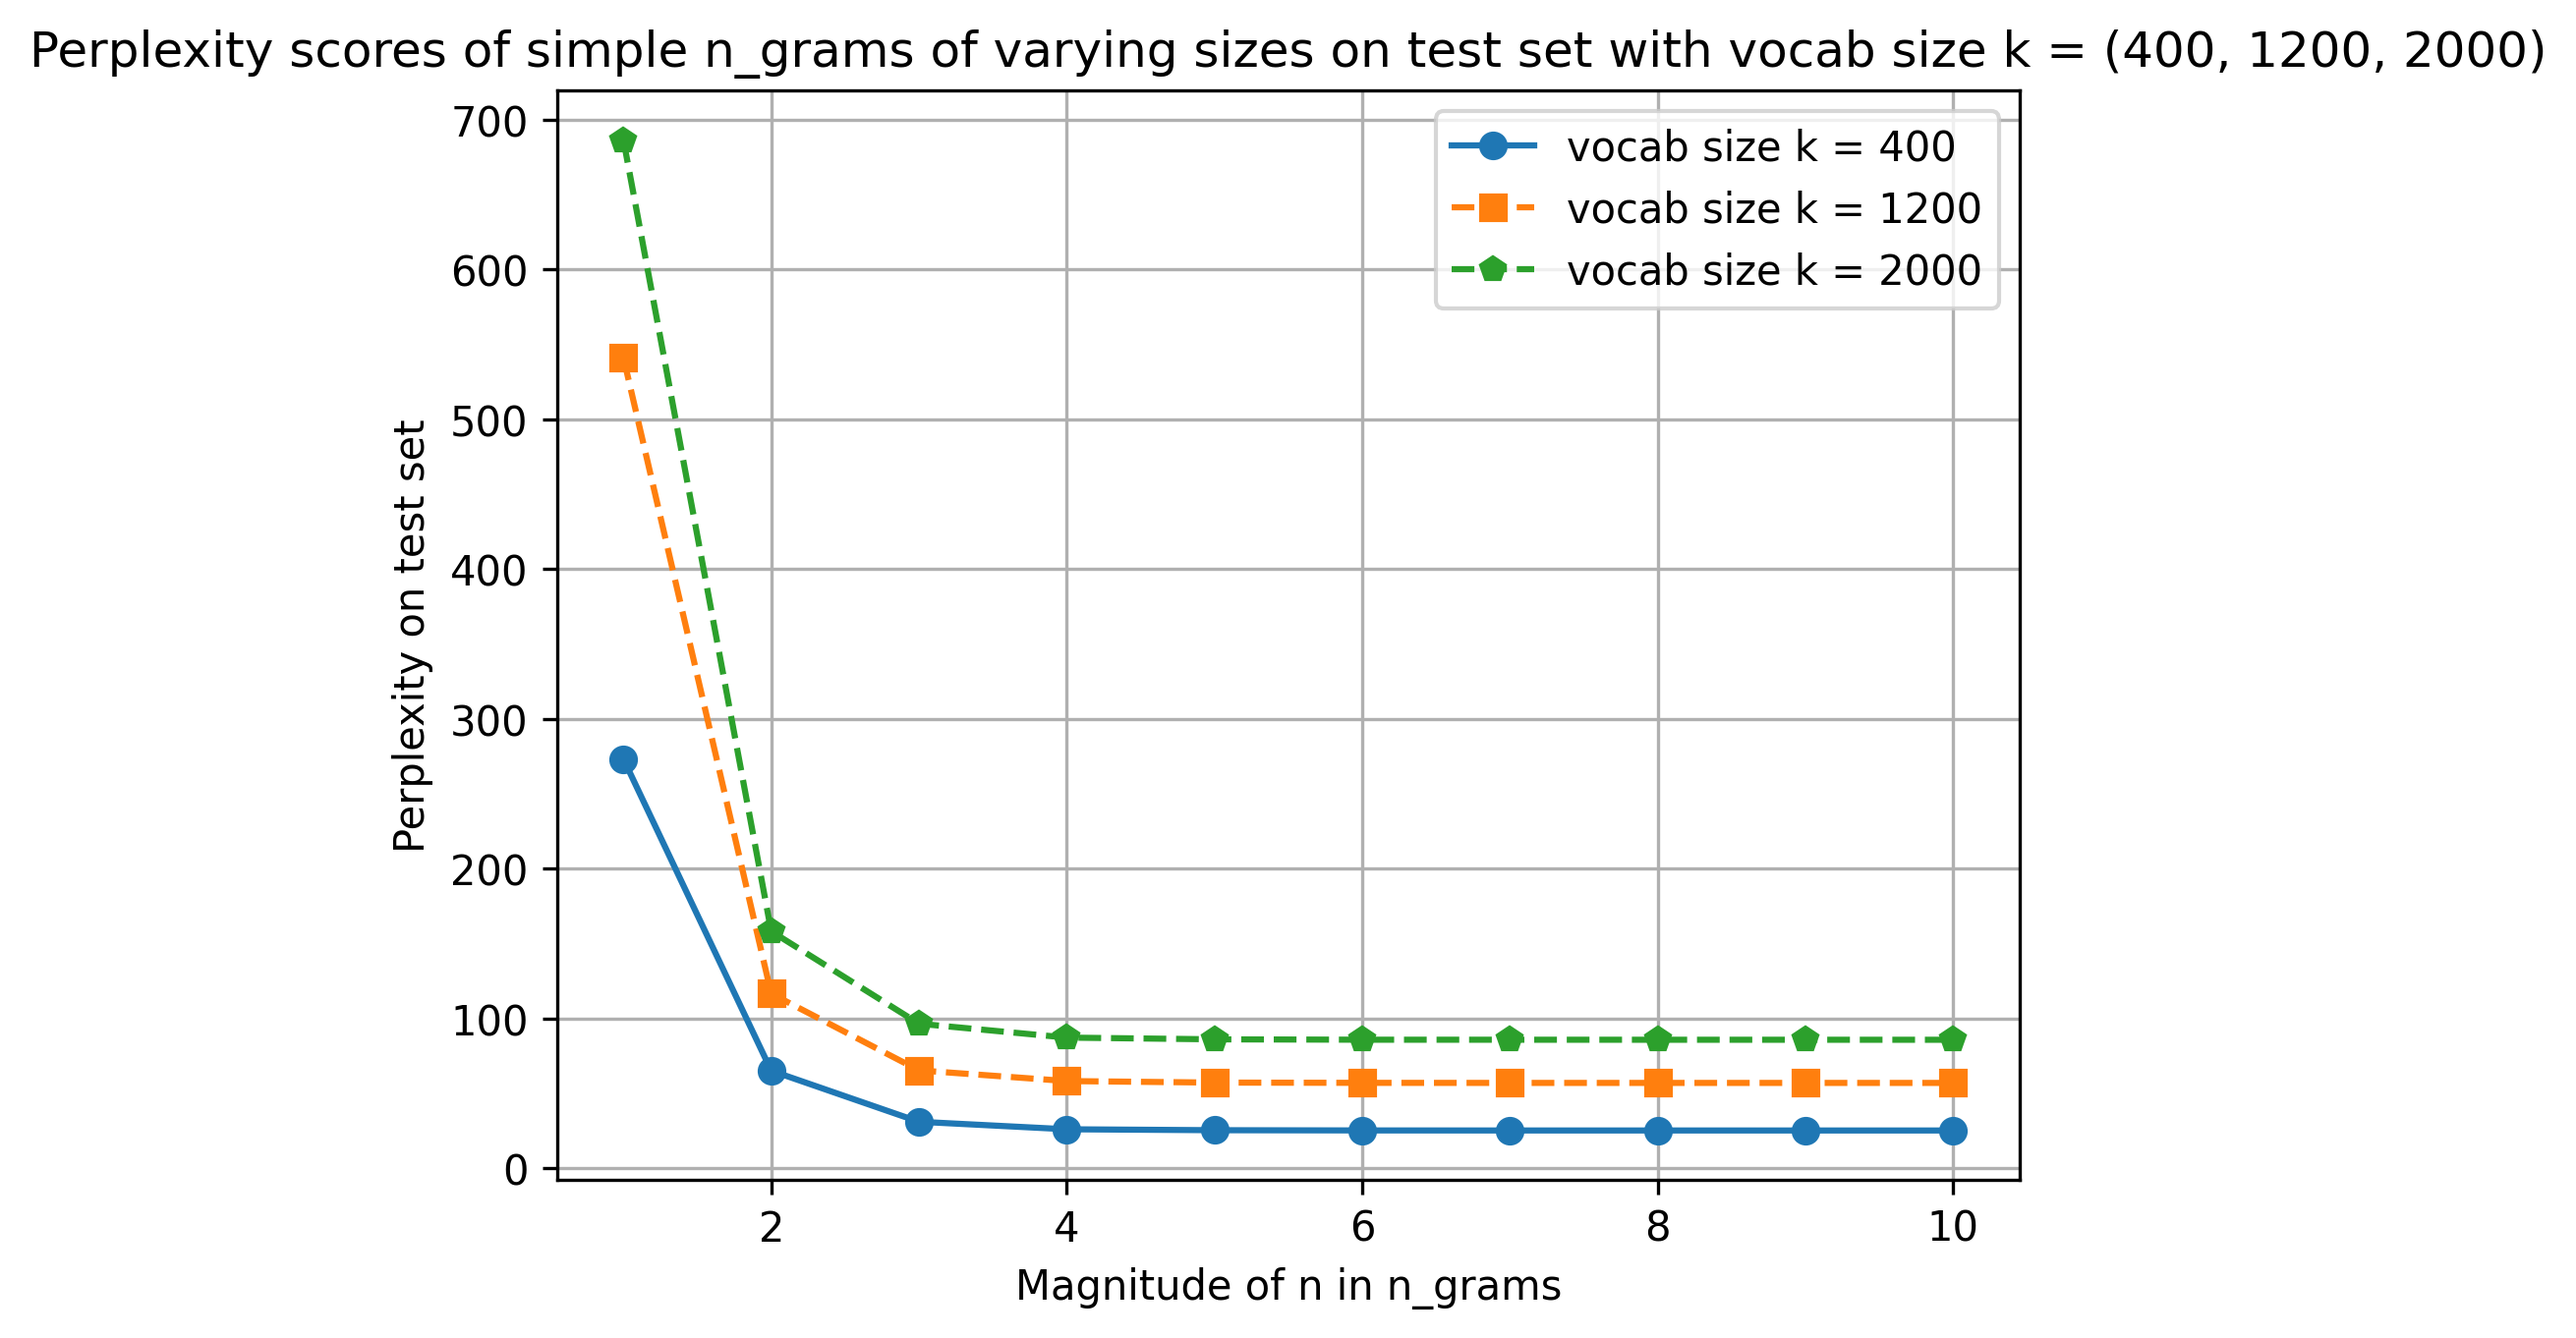
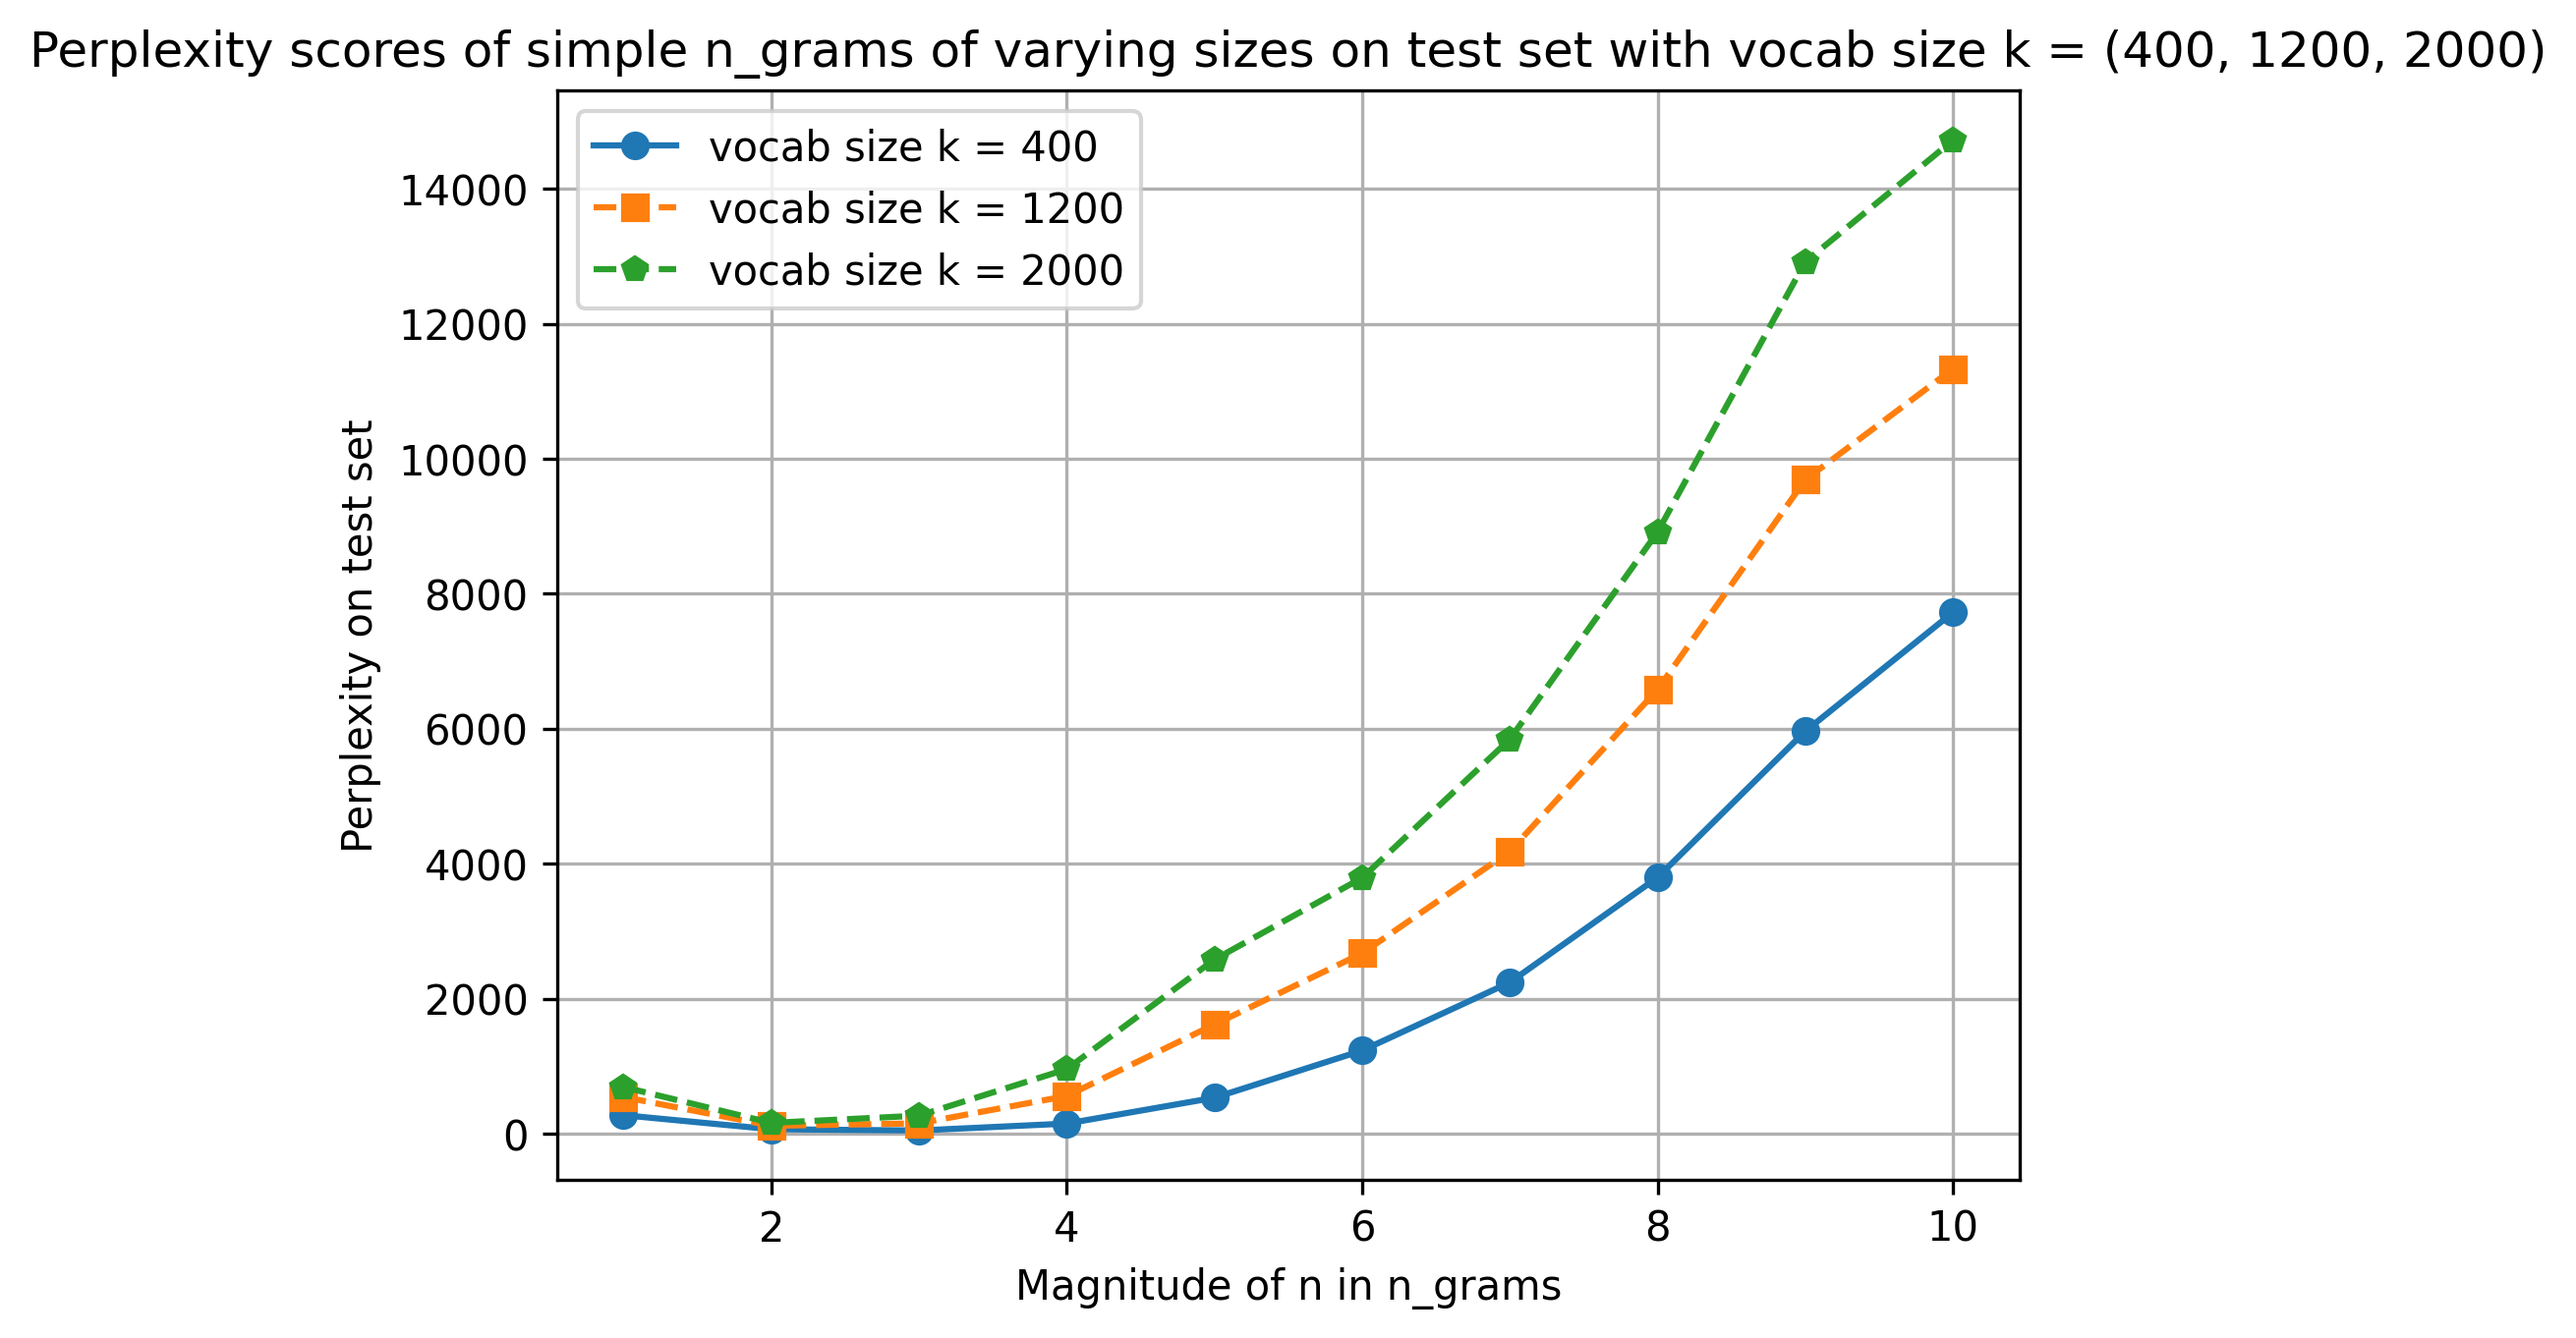
fix: greater penalty for more backoff

diff --git a/simple_n_grams.py b/simple_n_grams.py
@@ -119,19 +119,21 @@ def get_perplexity_score_of_via(corpus_segment: str,
          
             if sequence_freq > 0:
              
-          
-                
                 #we have not backed off to a unigram yet, because
                 #length (current n_gram without the last element) > 0 
                 if len (sequence[j:-1]) > 0:
                     perplexity_divisor = n_gram_counts[j+1][sequence[j:-1]]
-                    current_log_P = (sequence_freq - backoff_discounter) / perplexity_divisor 
+                    #current_log_P = (sequence_freq - backoff_discounter) / perplexity_divisor 
 
                 #we have backed off to a unigram when the
                 #length (current n_gram without the last element) = 0 
                 else:
                     perplexity_divisor = total_number_of_unigrams
-                    current_log_P = sequence_freq / perplexity_divisor 
+                    #current_log_P = sequence_freq / perplexity_divisor 
+                
+                penalized_perplexity_numerator = max(1e-5, sequence_freq - backoff_discounter*(j+1))
+                current_log_P = penalized_perplexity_numerator / perplexity_divisor 
+                #current_log_P = (sequence_freq - backoff_discounter) / perplexity_divisor 
          
                 net_log_P += math.log(current_log_P) 
 
